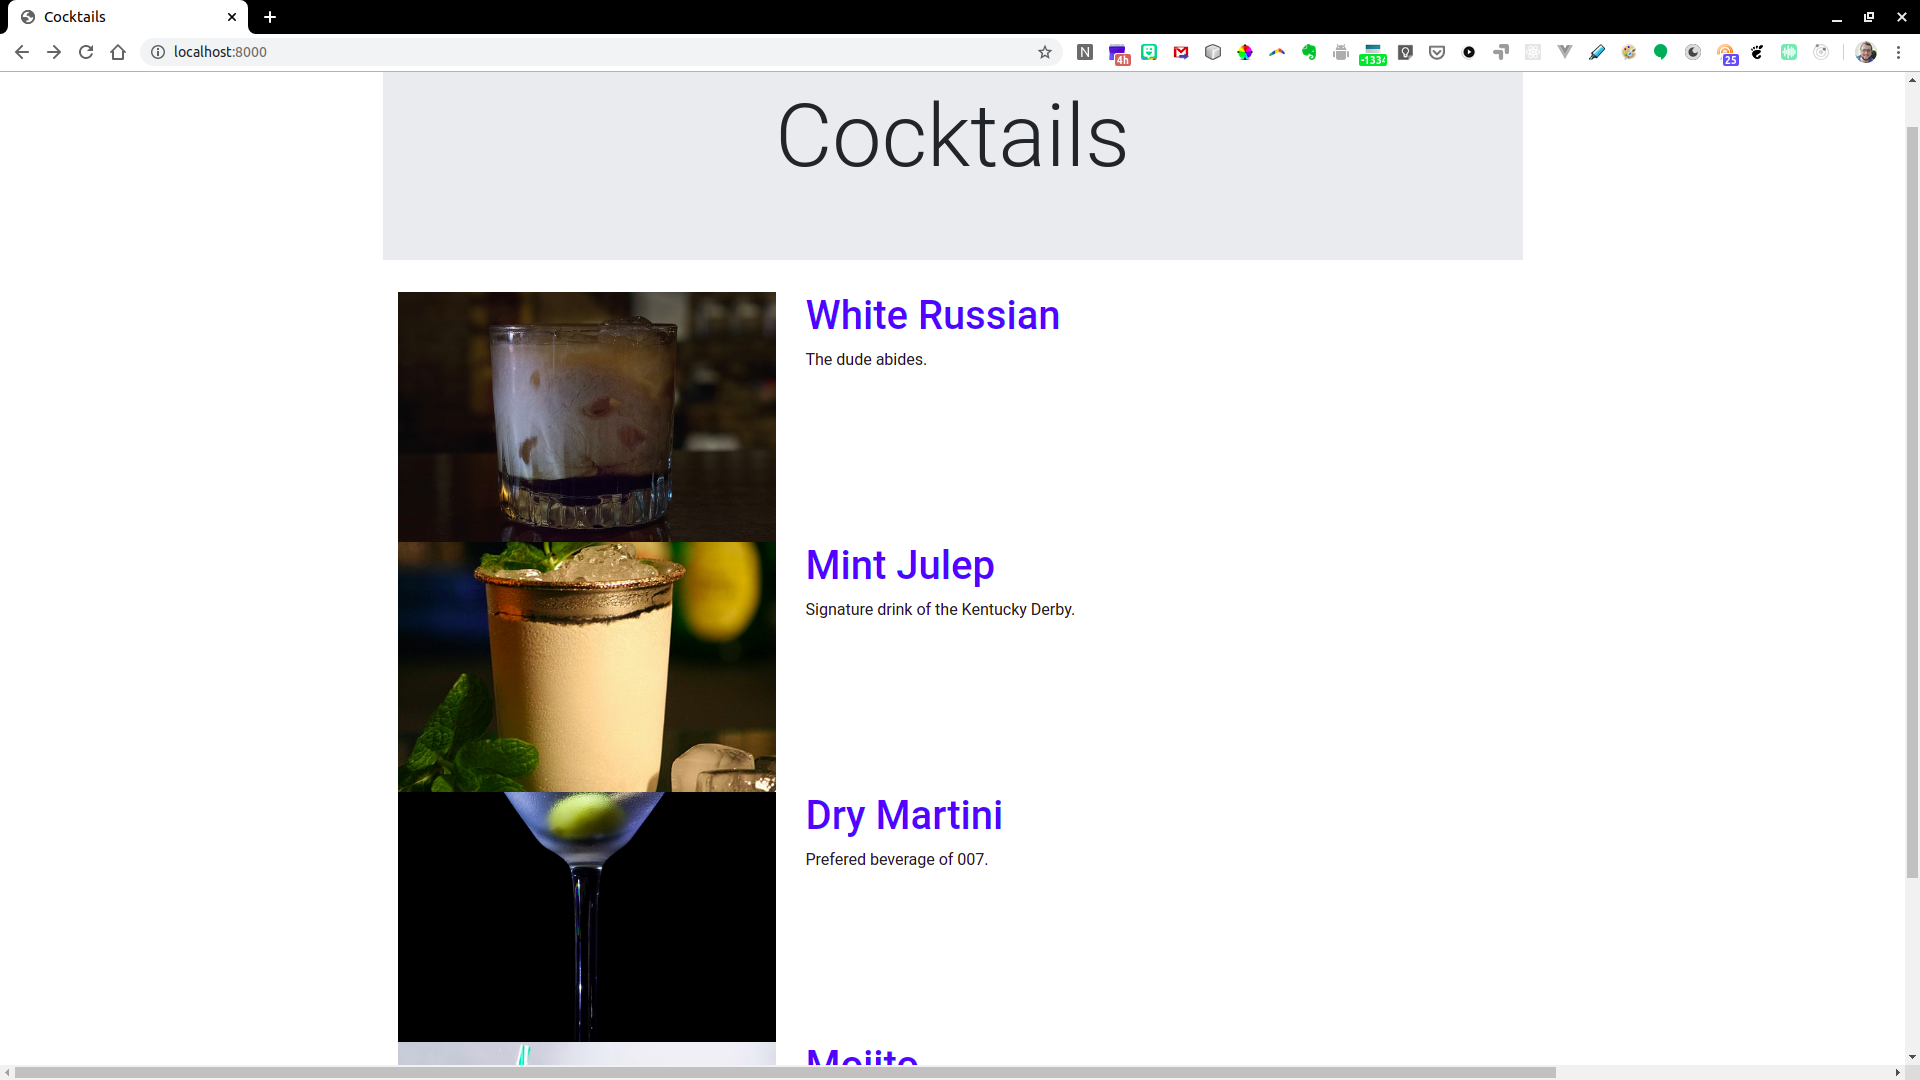
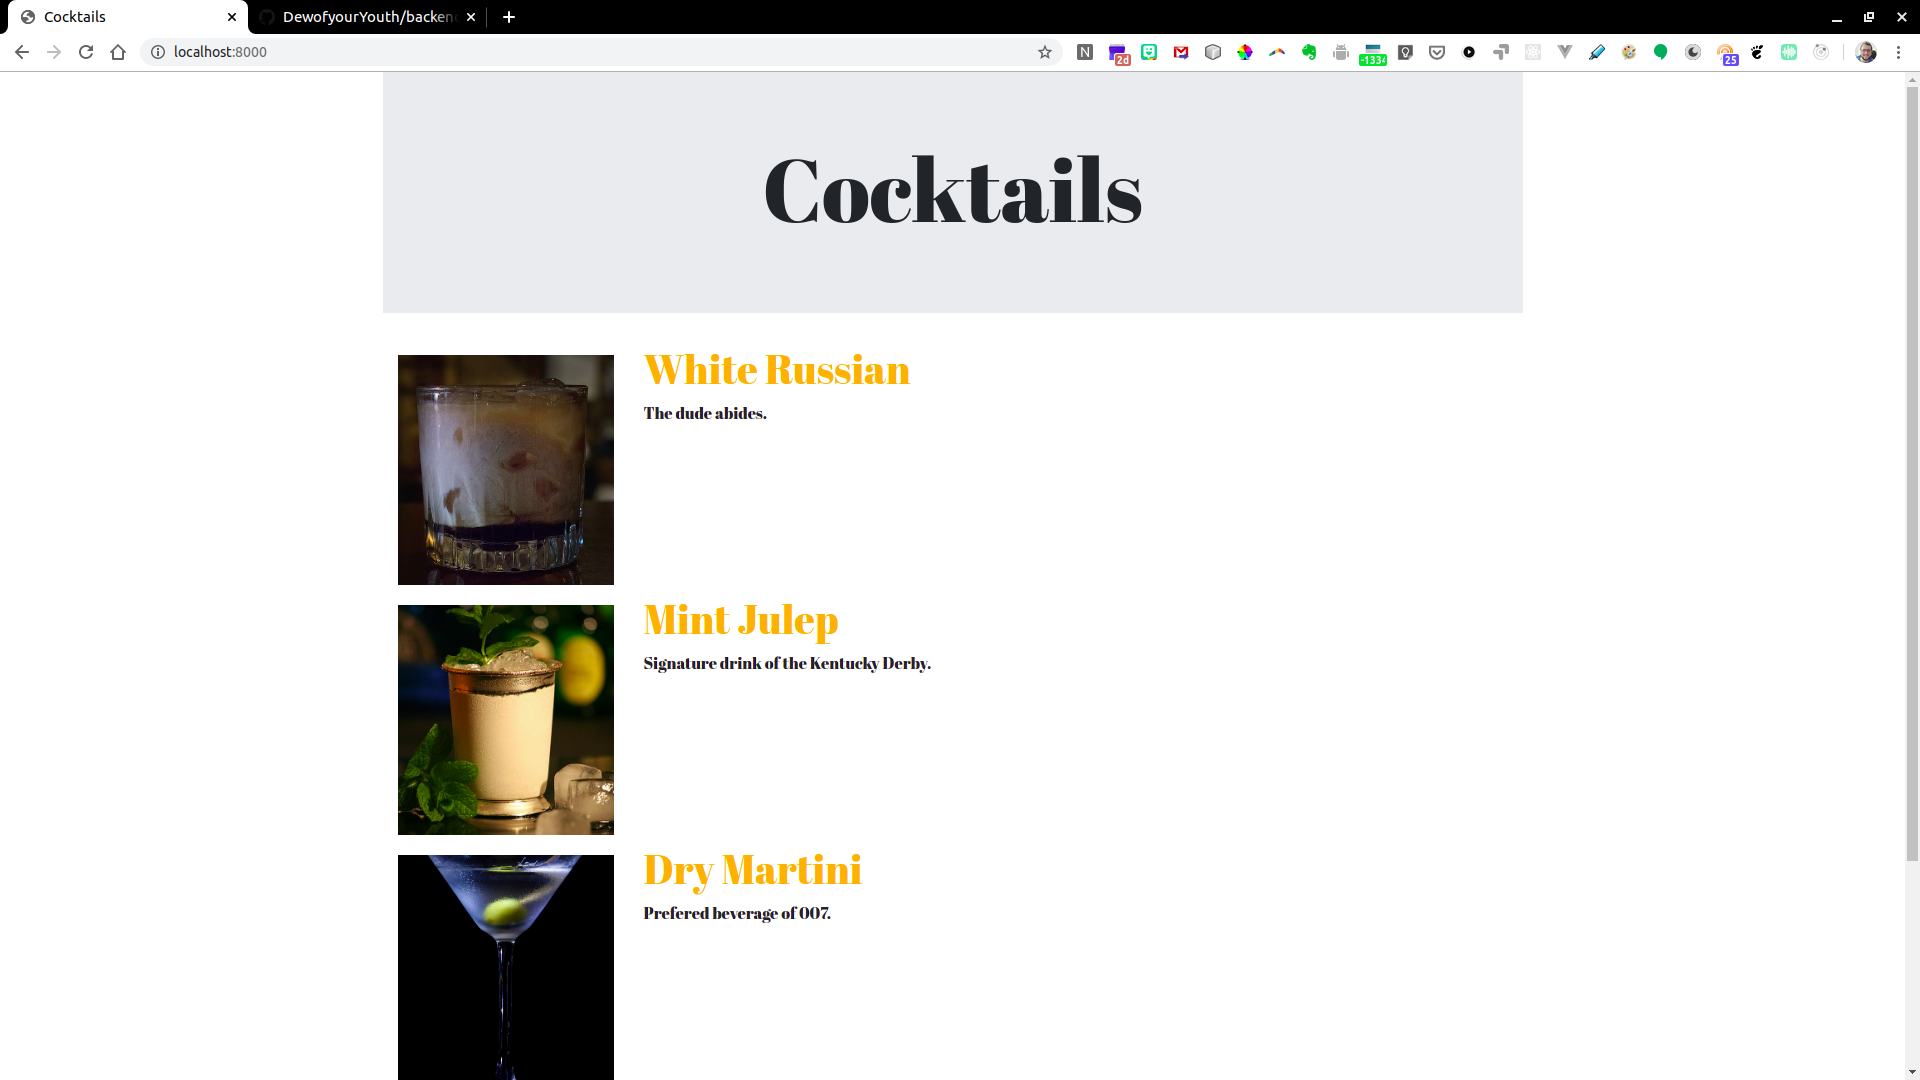
change homepage screenshot

diff --git a/static/css/styles.css b/static/css/styles.css
@@ -4,7 +4,7 @@
   border-radius: 0;
 }
 
-h1 {
+body {
   font-family: 'Abril Fatface', cursive;
 }
 
@@ -14,7 +14,7 @@ a {
 
 .cocktail {
   display: grid;
-  width: 100vw;
+  width: 100%;
   grid-template-columns: 1fr 4fr;
   grid-gap: 30px;
 }
